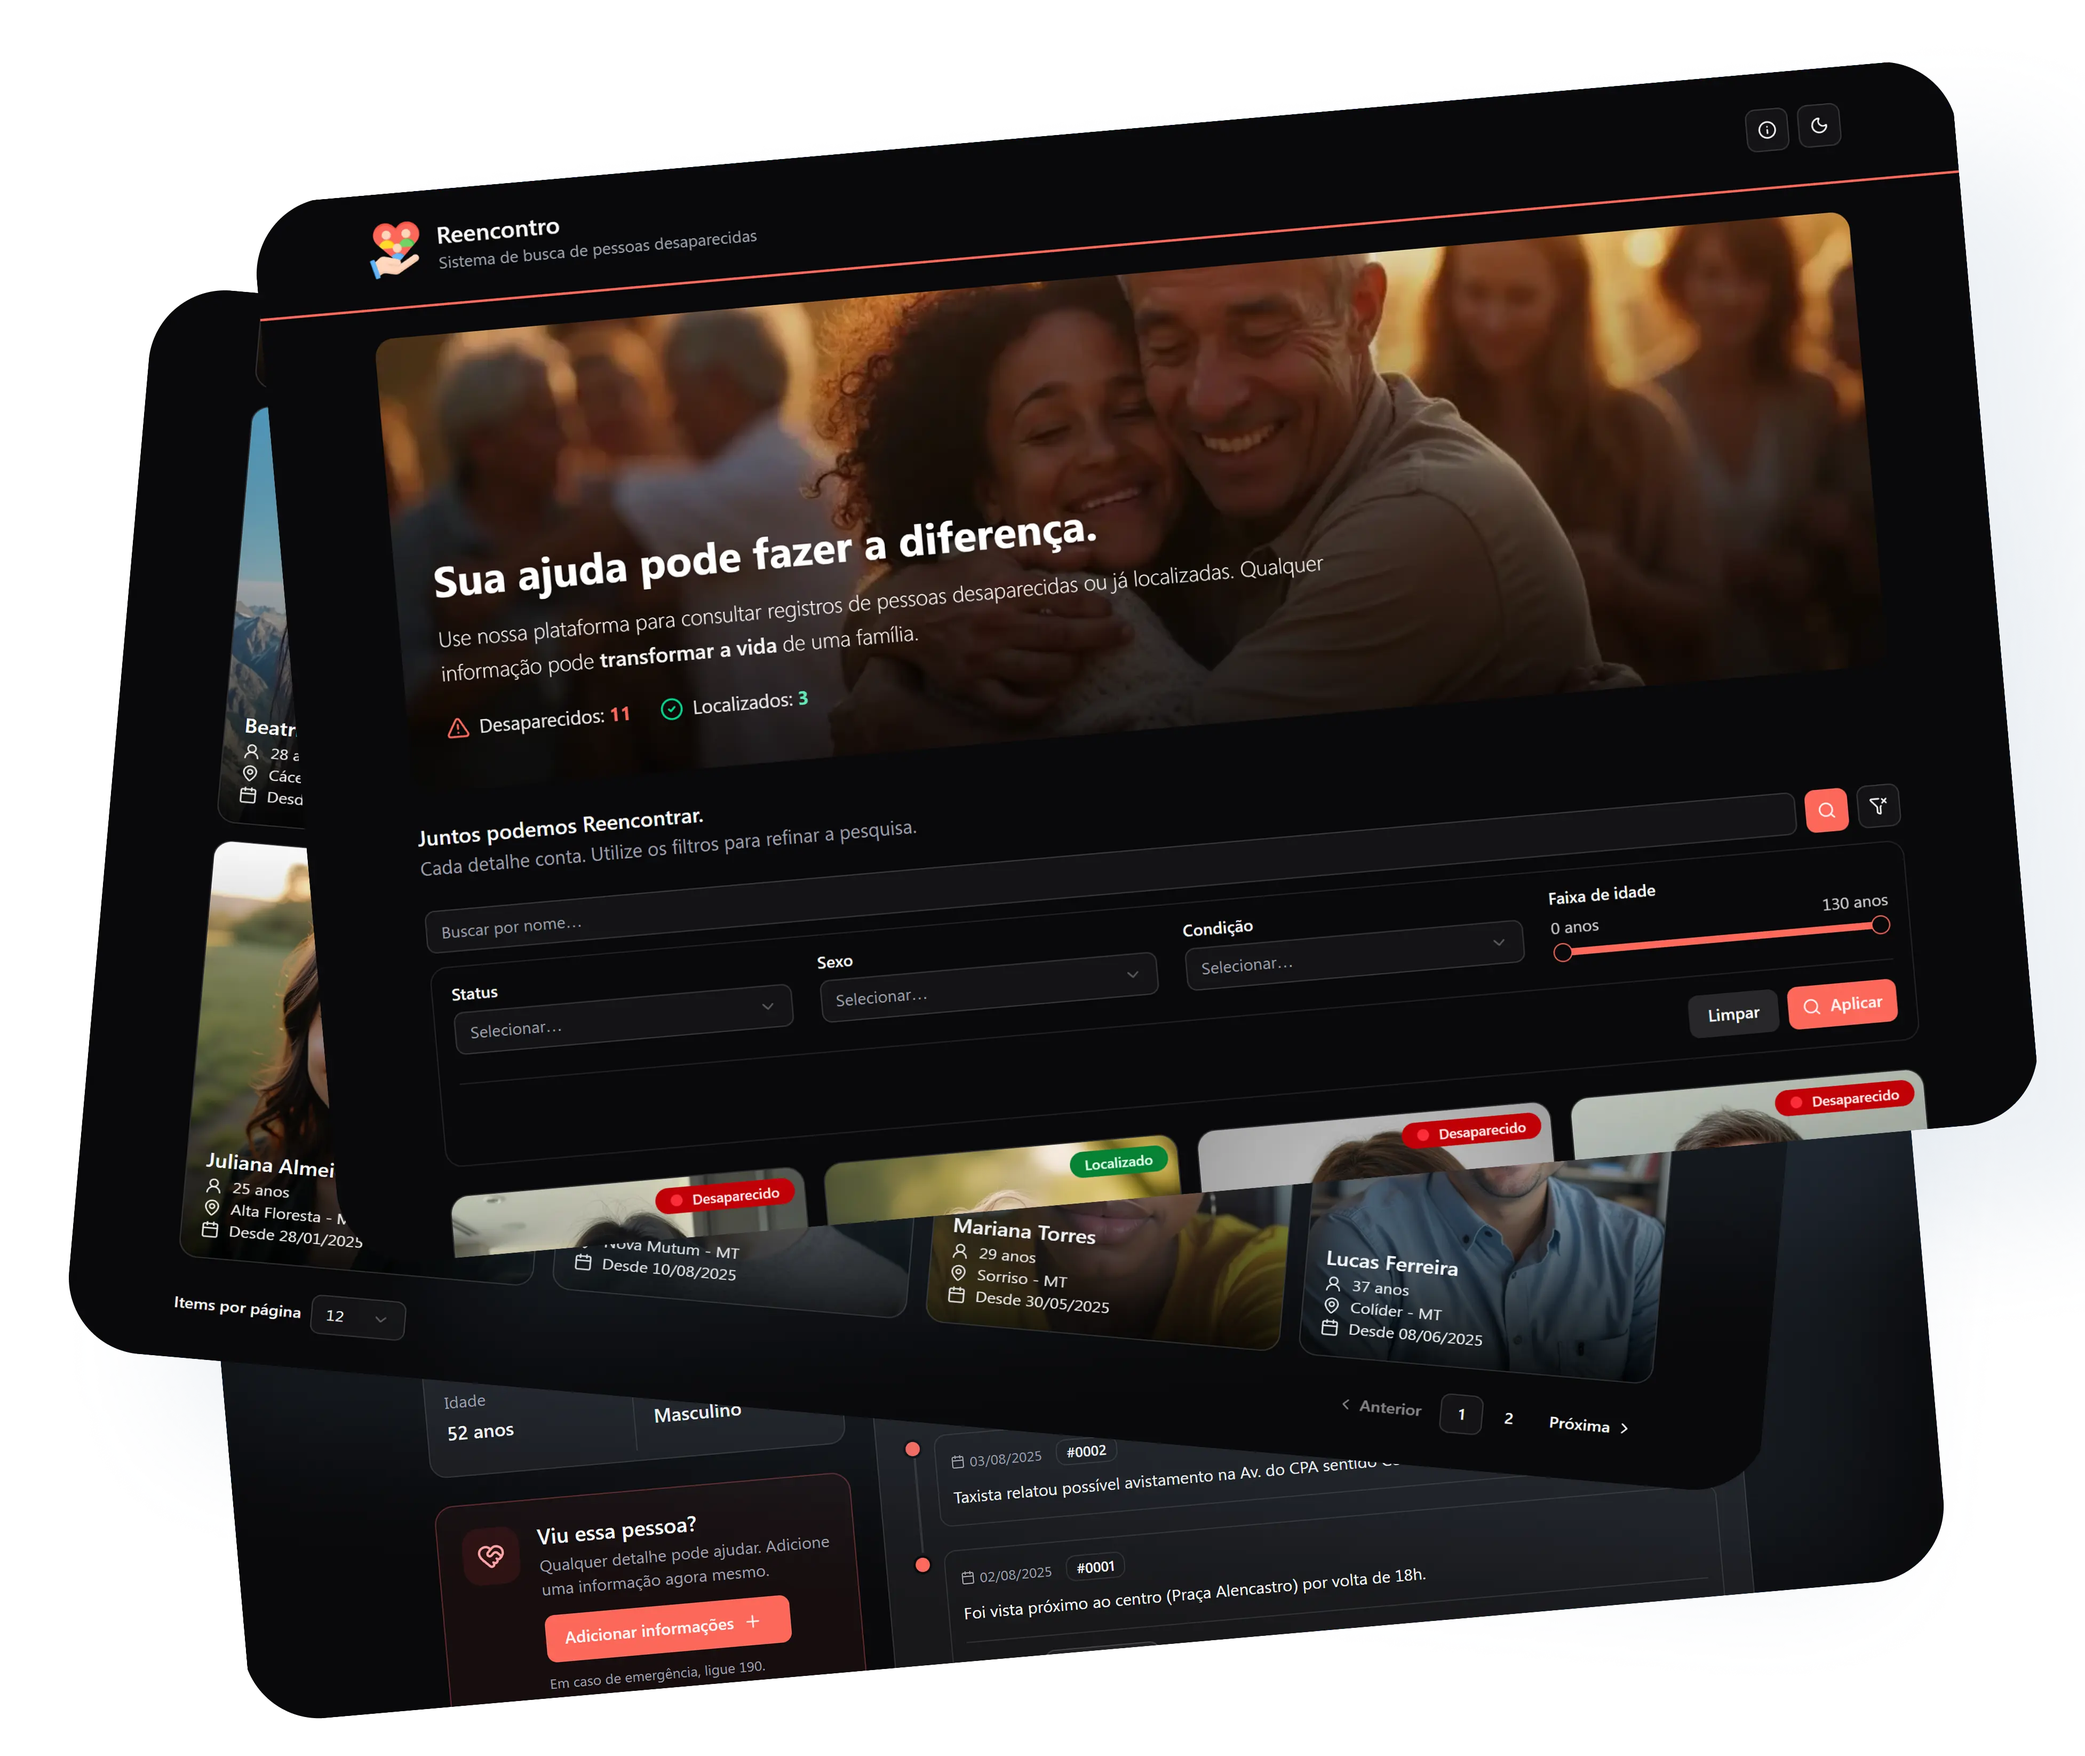
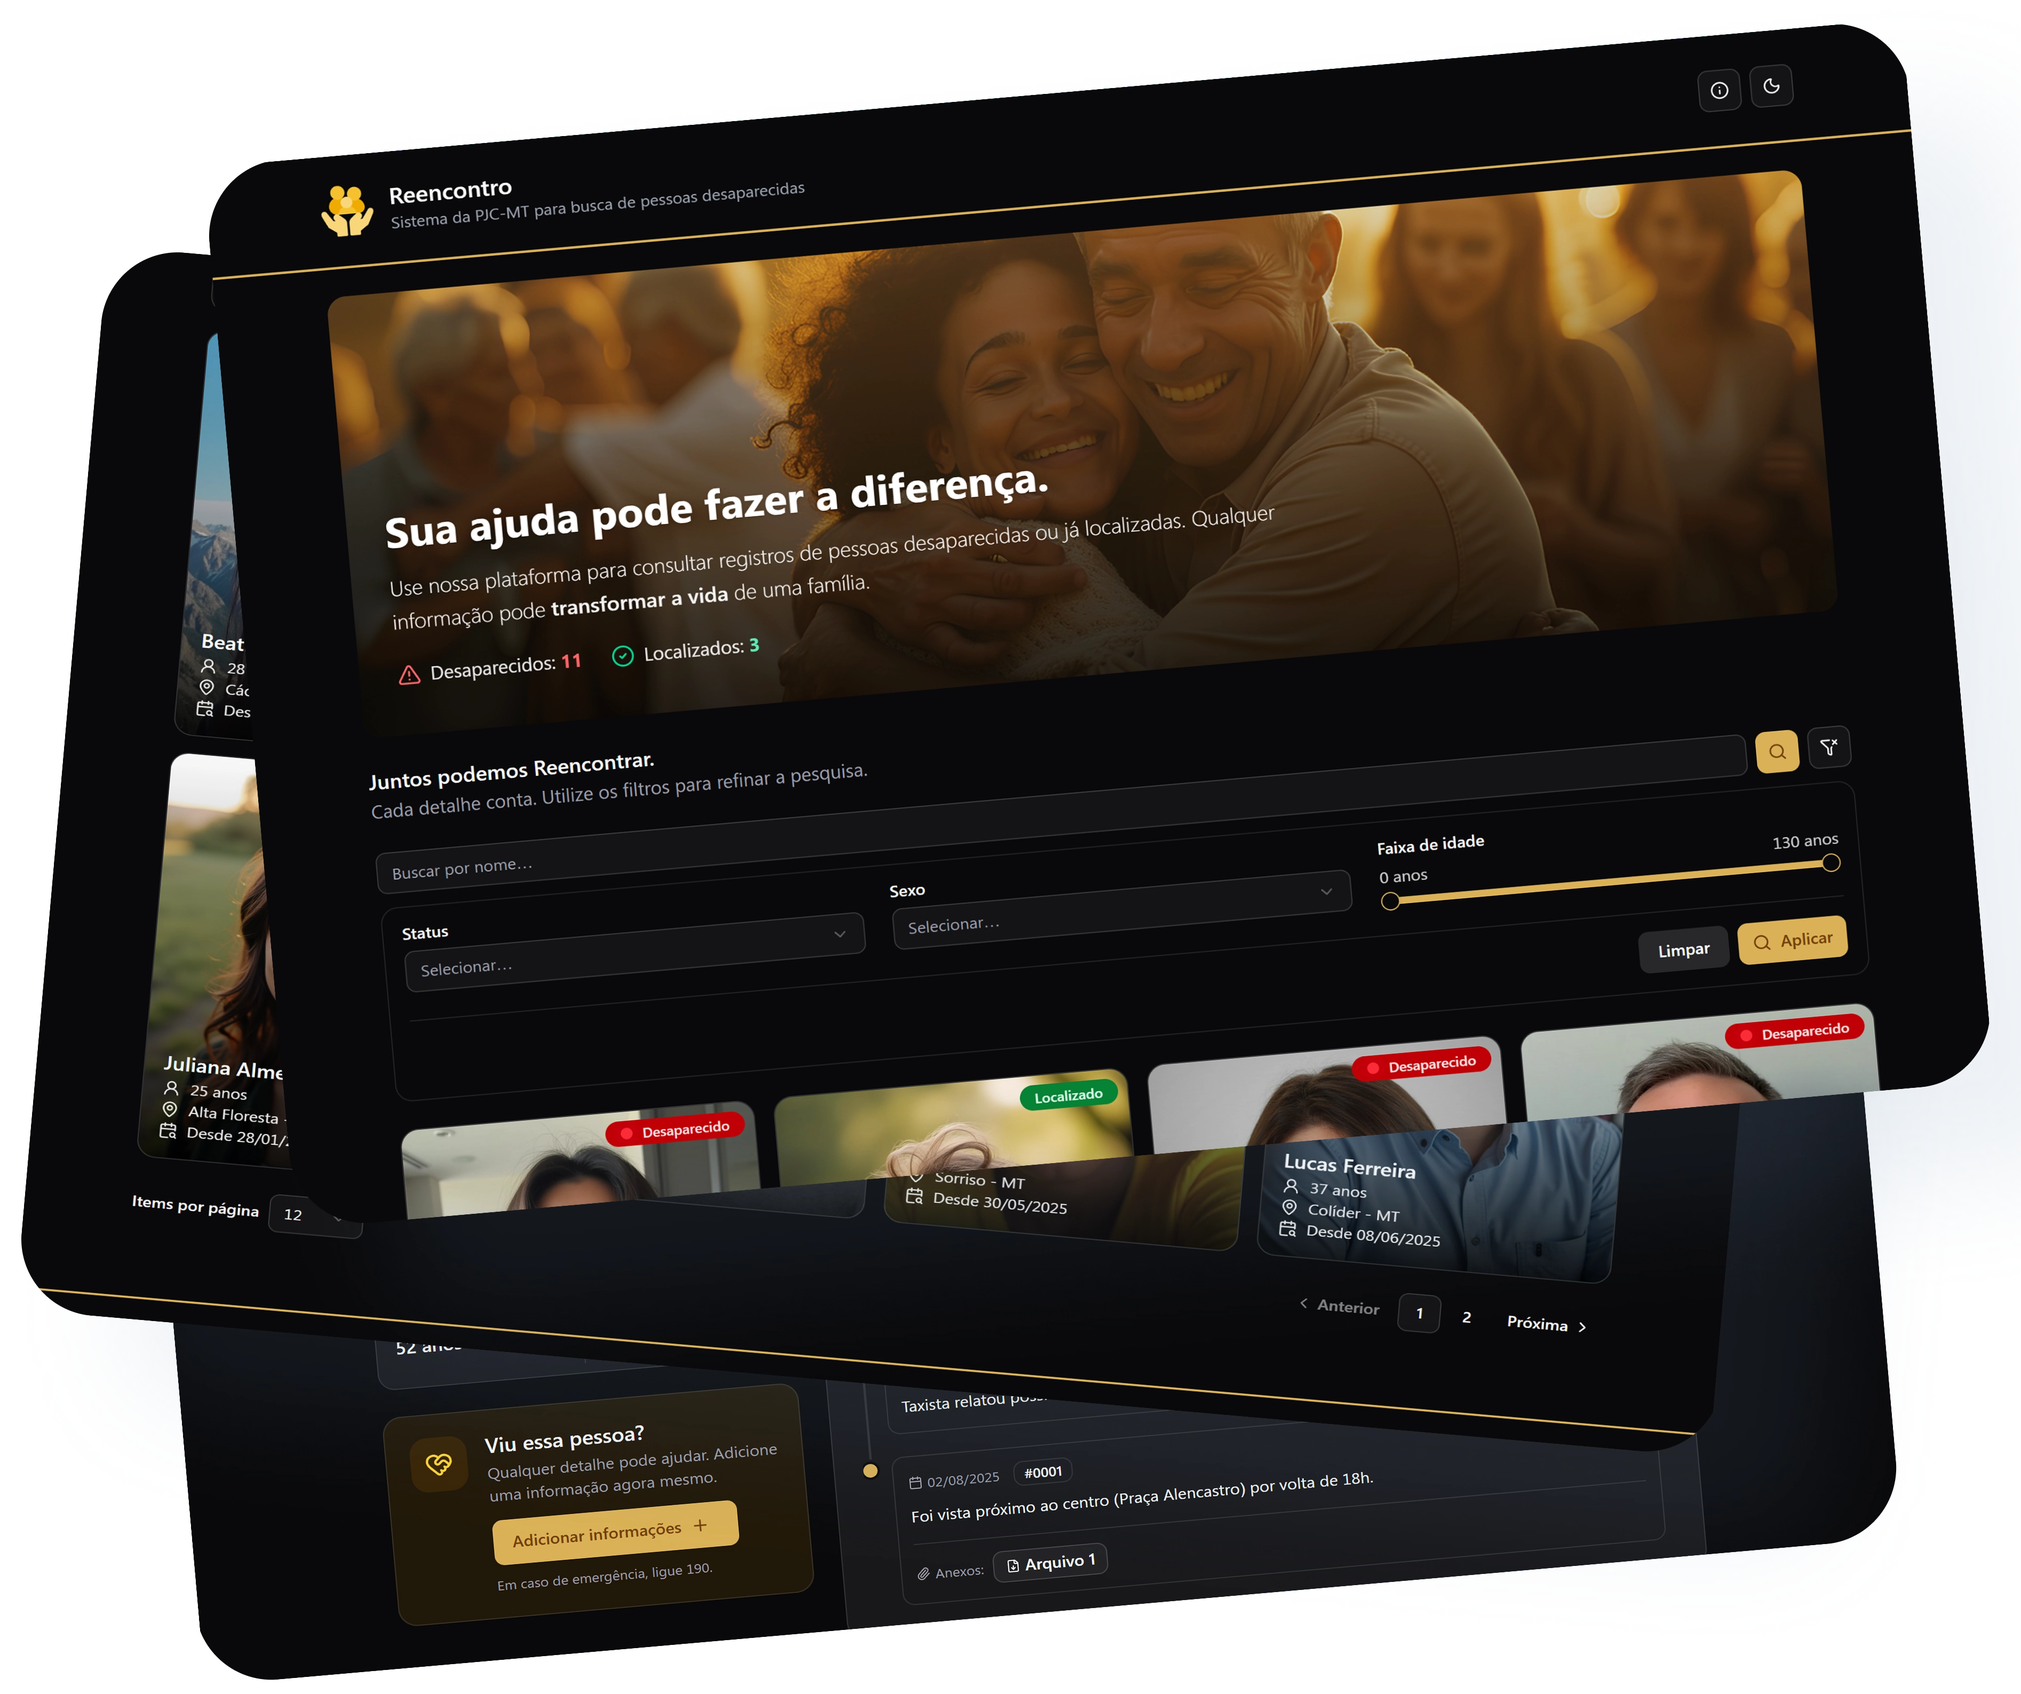
docs: Ajusta o README

diff --git a/README.md b/README.md
@@ -187,9 +187,9 @@ VITE_RECAPTCHA_ENABLED=true
 
 O design do **Reencontro** foi pensado para transmitir **clareza, empatia e urgência**:
 
-- **Paleta de cores**: tons mais fortes de **vermelho** foram escolhidos para reforçar a identidade do projeto “Reencontro”.  
-  O vermelho funciona como um chamado de atenção, remetendo à urgência da causa (pessoas desaparecidas) e à importância de agir rápido.  
-  Para contraste e legibilidade, foram aplicados tons neutros (cinza, branco e preto) no fundo e na tipografia.
+- **Paleta de cores**: a identidade visual do projeto adota tons de amarelo/dourado, alinhados ao brasão da **Polícia Judiciária Civil de Mato Grosso** (PJC-MT).
+  Essa escolha transmite seriedade, confiabilidade e institucionalidade, sem perder a força de destaque necessária para o tema de pessoas desaparecidas.
+  Para garantir contraste e legibilidade, foram aplicados tons neutros (cinza, branco e preto) no fundo e na tipografia.
 
 - **Componentes de UI**: a interface utiliza [**shadcn/ui**](https://ui.shadcn.com/), que fornece componentes modernos, acessíveis e reutilizáveis, estilizados diretamente com **Tailwind CSS**.  
   Isso garante consistência visual, responsividade e rapidez no desenvolvimento.
@@ -267,5 +267,6 @@ spa-pessoas-desaparecidas/
 ```
 
 > [!NOTE]  
-> Este projeto não utiliza variáveis sensíveis (como tokens ou credenciais).  
-> As únicas variáveis de ambiente são públicas (`VITE_API_BASE_URL` e `VITE_USE_MOCK`), mas recomenda-se sempre manter arquivos `.env` fora do versionamento por boas práticas.
+> Este projeto não utiliza variáveis sensíveis (como tokens ou credenciais privadas).  
+> Mesmo o `VITE_RECAPTCHA_SITE_KEY` é apenas a **test key oficial do Google**, própria para desenvolvimento, sem risco de exposição.  
+> Ainda assim, recomenda-se manter arquivos `.env` fora do versionamento por boas práticas.
